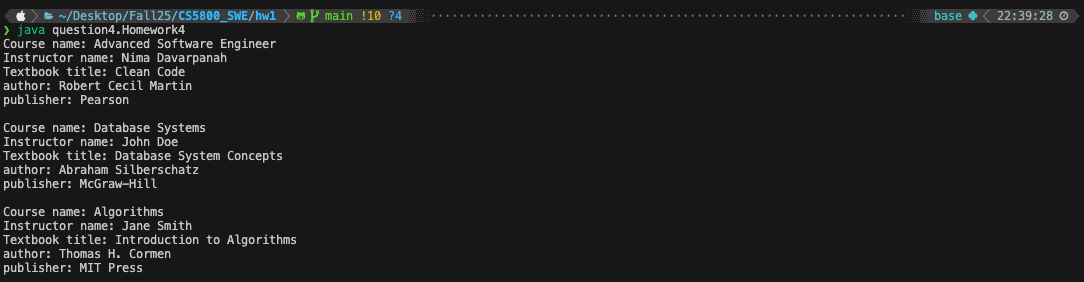
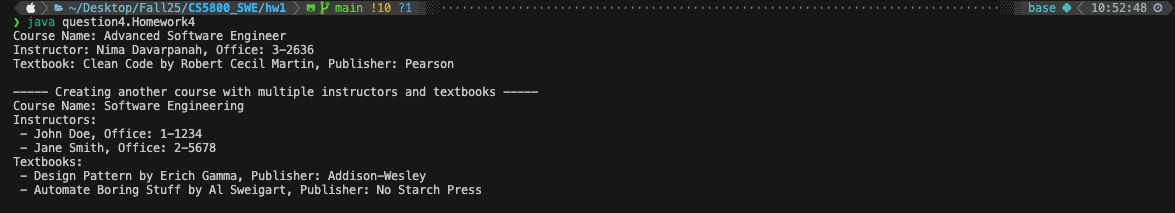
completed hw1

Changed region(s): [[0.0, 0.3944, 0.4566, 0.9859], [0.0, 0.0, 1.0, 0.3944]]

diff --git a/hw1/question4/Course.java b/hw1/question4/Course.java
@@ -1,9 +1,6 @@
-/*
- * Click nbfs://nbhost/SystemFileSystem/Templates/Licenses/license-default.txt to change this license
- * Click nbfs://nbhost/SystemFileSystem/Templates/Classes/Class.java to edit this template
- */
-
 package question4;
+
+import java.util.ArrayList;
 
 /**
  *
@@ -14,16 +11,50 @@ public class Course {
     private Instructor instructor;
     private Textbook textbook;
 
+    private ArrayList<Instructor> instructors; // for multiple instructors
+    private ArrayList<Textbook> textbooks; // for multiple textbooks
+    
     public Course(String name, Instructor instructor, Textbook textbook) {
         this.name = name;
         this.instructor = instructor;
         this.textbook = textbook;
     }
     
-    public void print(){
-        System.out.println("Course name: " + name);
-        System.out.println("Instructor name: " + instructor.getFirstName() + " " + instructor.getLastName());
-        System.out.println("Textbook title: " + textbook.getTitle() + "\nauthor: " + textbook.getAuthor() + "\npublisher: " + textbook.getPublisher());
+    // Constructor for multiple instructors and textbooks
+    public Course(String name, ArrayList<Instructor> instructors, ArrayList<Textbook> textbooks) {
+        this.name = name;
+        this.instructors = instructors;
+        this.textbooks = textbooks;
+    }
+
+
+    // Print function to display course details
+    public void print() {
+        System.out.println("Course Name: " + name);
+        if (instructor != null) {
+            System.out.println("Instructor: " + instructor.getFirstName() + " " + instructor.getLastName()
+                    + ", Office: " + instructor.getOfficeNumber());
+        }
+        // Handle a list of instructors 
+        else if (instructors != null) {
+            System.out.println("Instructors:");
+            for (Instructor inst : instructors) {
+                System.out.println(
+                        " - " + inst.getFirstName() + " " + inst.getLastName() + ", Office: " + inst.getOfficeNumber());
+            }
+        }
+        if (textbook != null) {
+            System.out.println("Textbook: " + textbook.getTitle() + " by " + textbook.getAuthor() + ", Publisher: "
+                    + textbook.getPublisher());
+        }
+        // Handle a list of textbooks
+        else if (textbooks != null) {
+            System.out.println("Textbooks:");
+            for (Textbook tb : textbooks) {
+                System.out
+                        .println(" - " + tb.getTitle() + " by " + tb.getAuthor() + ", Publisher: " + tb.getPublisher());
+            }
+        }
     }
 
 }

diff --git a/hw1/question4/Homework4.java b/hw1/question4/Homework4.java
@@ -1,5 +1,7 @@
 package question4;
 
+import java.util.ArrayList;
+
 /**
  *
  * @author trungvong
@@ -16,21 +18,26 @@ public class Homework4 {
         Course sweCourse = new Course("Advanced Software Engineer", SWEInstructor, cleanCode);
 
         sweCourse.print();
+        System.out.println();
 
-        // Create 2 instructors and 2 textbooks
-        Instructor dbInstructor = new Instructor("John", "Doe", "1-1234");
-        Instructor algoInstructor = new Instructor("Jane", "Smith", "2-5678");
-        Textbook dbTextbook = new Textbook("Database System Concepts", "Abraham Silberschatz", "McGraw-Hill");
-        Textbook algoTextbook = new Textbook("Introduction to Algorithms", "Thomas H. Cormen", "MIT Press");
+        System.out.println("----- Creating another course with multiple instructors and textbooks -----");
+        // Create 2 instructors and 2 textbooks for one course 
+        Instructor sweInstructor1 = new Instructor("John", "Doe", "1-1234");
+        Instructor sweInstructor2 = new Instructor("Jane", "Smith", "2-5678");
+        Textbook sweTextBook1 = new Textbook("Design Pattern", "Erich Gamma", "Addison-Wesley");
+        Textbook sweTextBook2 = new Textbook("Automate Boring Stuff", "Al Sweigart", "No Starch Press");
         
-        // Create 2 courses using the above instructors and textbooks
-        Course dbCourse = new Course("Database Systems", dbInstructor, dbTextbook);
-        Course algoCourse = new Course("Algorithms", algoInstructor, algoTextbook);
-        // Print the details of each course
+        ArrayList<Instructor> instructors = new ArrayList<>();
+        instructors.add(sweInstructor1);
+        instructors.add(sweInstructor2);
+        
+        ArrayList<Textbook> textbooks = new ArrayList<>();
+        textbooks.add(sweTextBook1);
+        textbooks.add(sweTextBook2);
+
+        Course sweCourse2 = new Course("Software Engineering", instructors, textbooks);
+        sweCourse2.print();
         System.out.println();
-        dbCourse.print();
-        System.out.println();
-        algoCourse.print();
     }
 
 }

diff --git a/hw1/question4/Instructor.java b/hw1/question4/Instructor.java
@@ -1,8 +1,3 @@
-/*
- * Click nbfs://nbhost/SystemFileSystem/Templates/Licenses/license-default.txt to change this license
- * Click nbfs://nbhost/SystemFileSystem/Templates/Classes/Class.java to edit this template
- */
-
 package question4;
 
 /**
@@ -19,7 +14,7 @@ public class Instructor {
         this.lastName = lastName;
         this.officeNumber = officeNumber;
     }
-    
+
     public void setFirstName(String fn) {
         this.firstName = fn;
     }

diff --git a/hw1/question4/Textbook.java b/hw1/question4/Textbook.java
@@ -1,8 +1,3 @@
-/*
- * Click nbfs://nbhost/SystemFileSystem/Templates/Licenses/license-default.txt to change this license
- * Click nbfs://nbhost/SystemFileSystem/Templates/Classes/Class.java to edit this template
- */
-
 package question4;
 
 /**
@@ -19,7 +14,7 @@ public class Textbook {
         this.author = author;
         this.publisher = publisher;
     }
-    
+
     public void setTitle(String title) {
         this.title = title;
     }

diff --git a/hw1/question5/Homework5.java b/hw1/question5/Homework5.java
@@ -1,7 +1,4 @@
-/*
- * Click nbfs://nbhost/SystemFileSystem/Templates/Licenses/license-default.txt to change this license
- * Click nbfs://nbhost/SystemFileSystem/Templates/Classes/Main.java to edit this template
- */
+
 package question5;
 /**
  *

diff --git a/hw1/question5/File.java b/hw1/question5/File.java
@@ -1,8 +1,3 @@
-/*
- * Click nbfs://nbhost/SystemFileSystem/Templates/Licenses/license-default.txt to change this license
- * Click nbfs://nbhost/SystemFileSystem/Templates/Classes/Class.java to edit this template
- */
-
 package question5;
 
 /**
